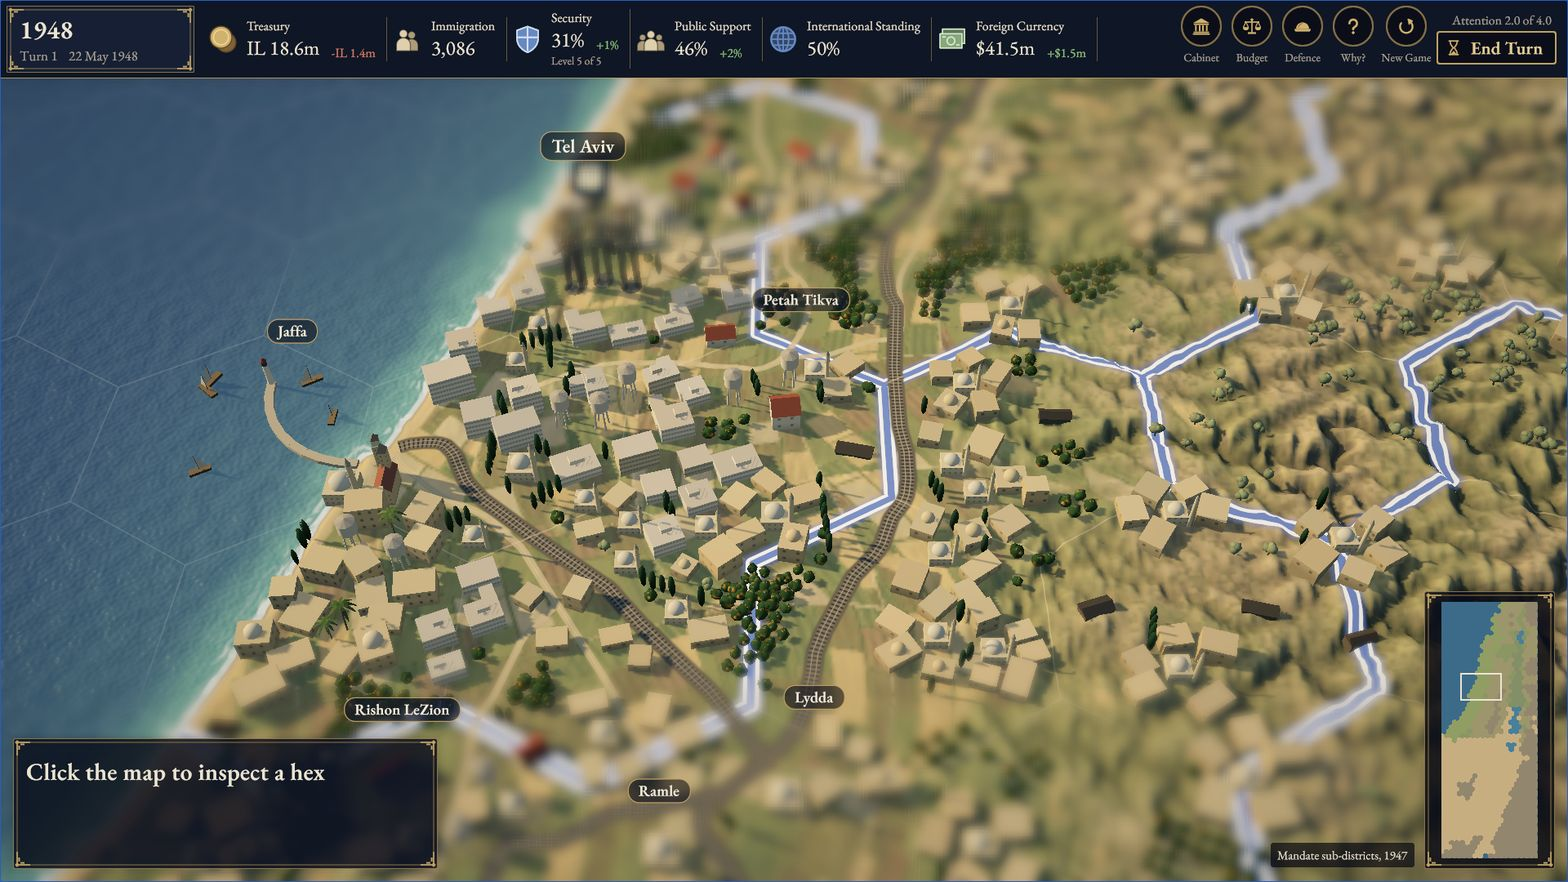
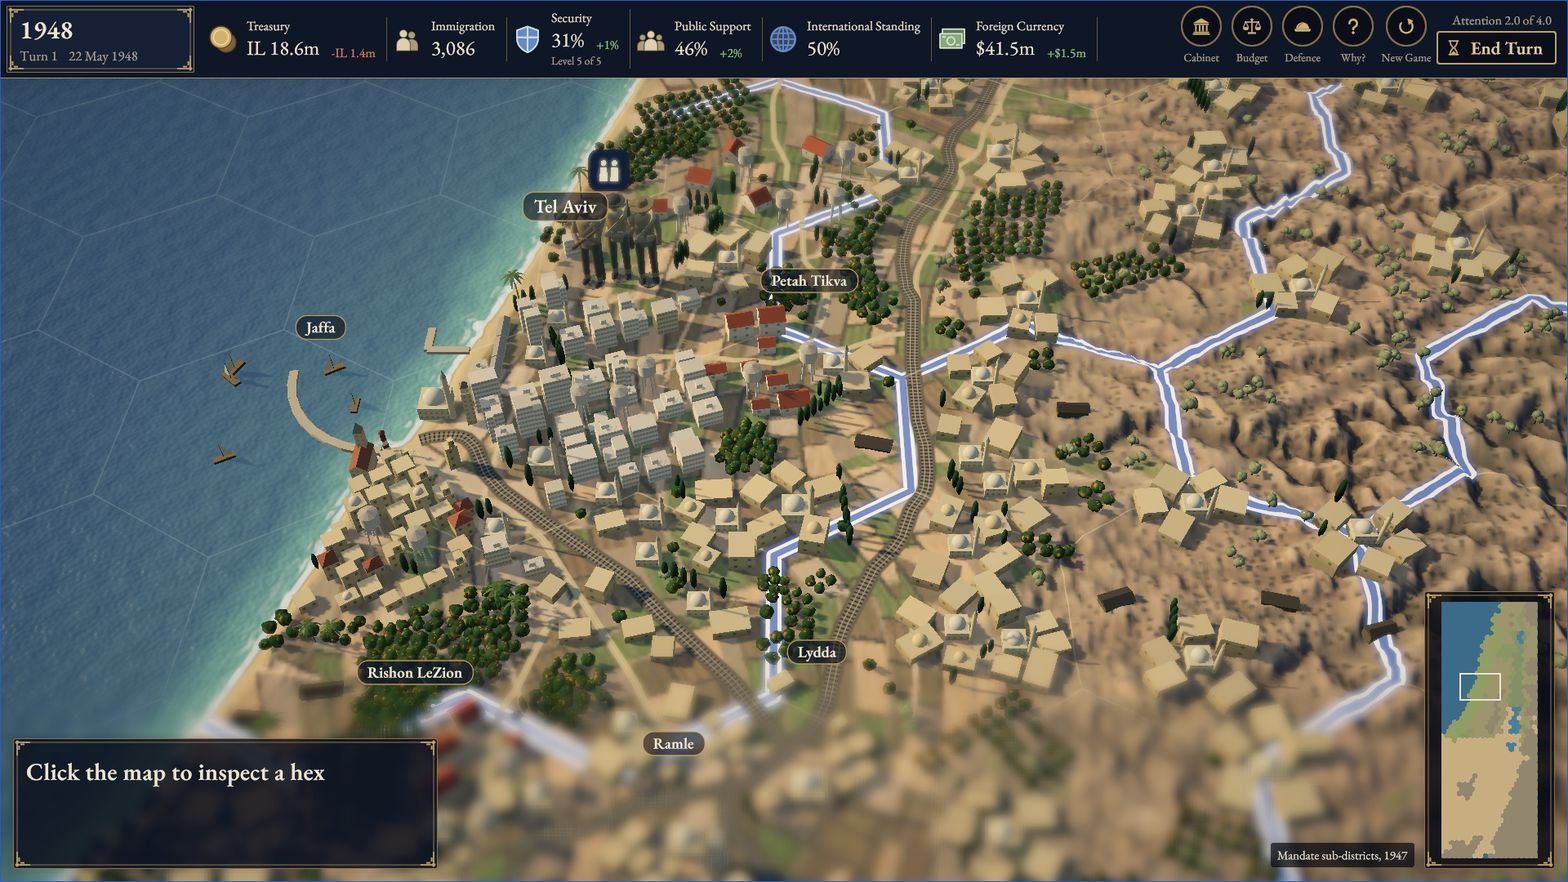
docs(readme): screenshots of main 47eac52, sharp far band and round-2 towns
All five shots and the social preview re-taken from a WebGL build of this
branch after merging main 47eac52 (#339 towns, #392 land, #399 the lighter
far tilt-shift band), at the same moments and the same way. The caption
names the commit; the map and close-up alt text name Tel Aviv's white
blocks, Jaffa's stone town and the brigade token now visible.

diff --git a/README.md b/README.md
@@ -40,15 +40,15 @@ The game design of record is now [docs/GDD.md](docs/GDD.md) (12 October 2026): m
 ## What it looks like today
 
 <p align="center">
-  <img src="docs/images/build-m3-map.jpg" alt="Current build, 22 May 1948: the coastal plain from Tel Aviv and Jaffa to Jerusalem with towns and villages, groves, railways and roads, brigade tokens and an aircraft, the top bar, and the One Army event card with an archival photograph" width="820">
+  <img src="docs/images/build-m3-map.jpg" alt="Current build, 22 May 1948: the coastal plain from Tel Aviv and Jaffa to Jerusalem with Tel Aviv's white blocks, towns and villages, groves, railways and roads, brigade tokens and an aircraft, the top bar, and the One Army event card with an archival photograph" width="820">
 </p>
 <p align="center">
   <img src="docs/images/build-m3-start.jpg" alt="Current build: the start screen, two lines of the Declaration of Independence in Hebrew and English over an AI-generated painting of the 14 May 1948 ceremony" width="405">
-  <img src="docs/images/build-m3-city.jpg" alt="Current build: close-up of Tel Aviv and Jaffa with its harbour, towns and villages, groves, railways and the Mandate sub-district borders" width="405">
+  <img src="docs/images/build-m3-city.jpg" alt="Current build: close-up of Tel Aviv's white blocks and Jaffa's stone town and harbour, a rifle-trio brigade token, groves, railways and the Mandate sub-district borders" width="405">
   <br>
   <img src="docs/images/build-m3-cabinet.jpg" alt="Current build: the Cabinet screen with the Provisional State Council as a half circle of seats and the ministers' portrait cards" width="405">
   <img src="docs/images/build-m3-why.jpg" alt="Current build: the Why panel explaining a turn's changes" width="405">
-  <br><em>Real screenshots from build 0.1.0 (M3), 2026-10-13. The start screen's painting is AI-generated.</em>
+  <br><em>Real screenshots from build 0.1.0 (M3), 2026-10-13. Taken at commit 47eac52. The start screen's painting is AI-generated.</em>
 </p>
 
 ## Is this any good?

diff --git a/README.he.md b/README.he.md
@@ -25,7 +25,7 @@ https://github.com/user-attachments/assets/56571db8-446b-444b-8db9-fce57dac53a7
 <img src="docs/images/build-m3-map.jpg" width="820" alt="הגרסה הנוכחית 0.1.0 (M3): מפת השטח עם עיירות וכפרים, מסילות ויחידות, הסרגל העליון וכרטיס אירוע עם צילום ארכיון.">
 <br>
 <img src="docs/images/build-m3-start.jpg" width="405" alt="הגרסה הנוכחית 0.1.0 (M3): מסך הפתיחה עם שתי שורות ממגילת העצמאות, על רקע ציור שנוצר בבינה מלאכותית.">
-<img src="docs/images/build-m3-city.jpg" width="405" alt="הגרסה הנוכחית 0.1.0 (M3): תקריב של תל אביב ויפו.">
+<img src="docs/images/build-m3-city.jpg" width="405" alt="הגרסה הנוכחית 0.1.0 (M3): תקריב של הבתים הלבנים של תל אביב ושל יפו ונמלה.">
 <br>
 <img src="docs/images/build-m3-cabinet.jpg" width="405" alt="הגרסה הנוכחית 0.1.0 (M3): מסך הקבינט.">
 <img src="docs/images/build-m3-why.jpg" width="405" alt="הגרסה הנוכחית 0.1.0 (M3): לוח 'למה זה קרה?'.">
@@ -34,7 +34,7 @@ https://github.com/user-attachments/assets/56571db8-446b-444b-8db9-fce57dac53a7
 
 <div dir="rtl">
 
-<p align="center"><em>צילומי מסך אמיתיים מגרסה 0.1.0 (M3), 2026-10-13. הציור במסך הפתיחה נוצר בבינה מלאכותית.</em></p>
+<p align="center"><em>צילומי מסך אמיתיים מגרסה 0.1.0 (M3), 2026-10-13, בקומיט <span dir="ltr">47eac52</span>. הציור במסך הפתיחה נוצר בבינה מלאכותית.</em></p>
 
 </div>
 
